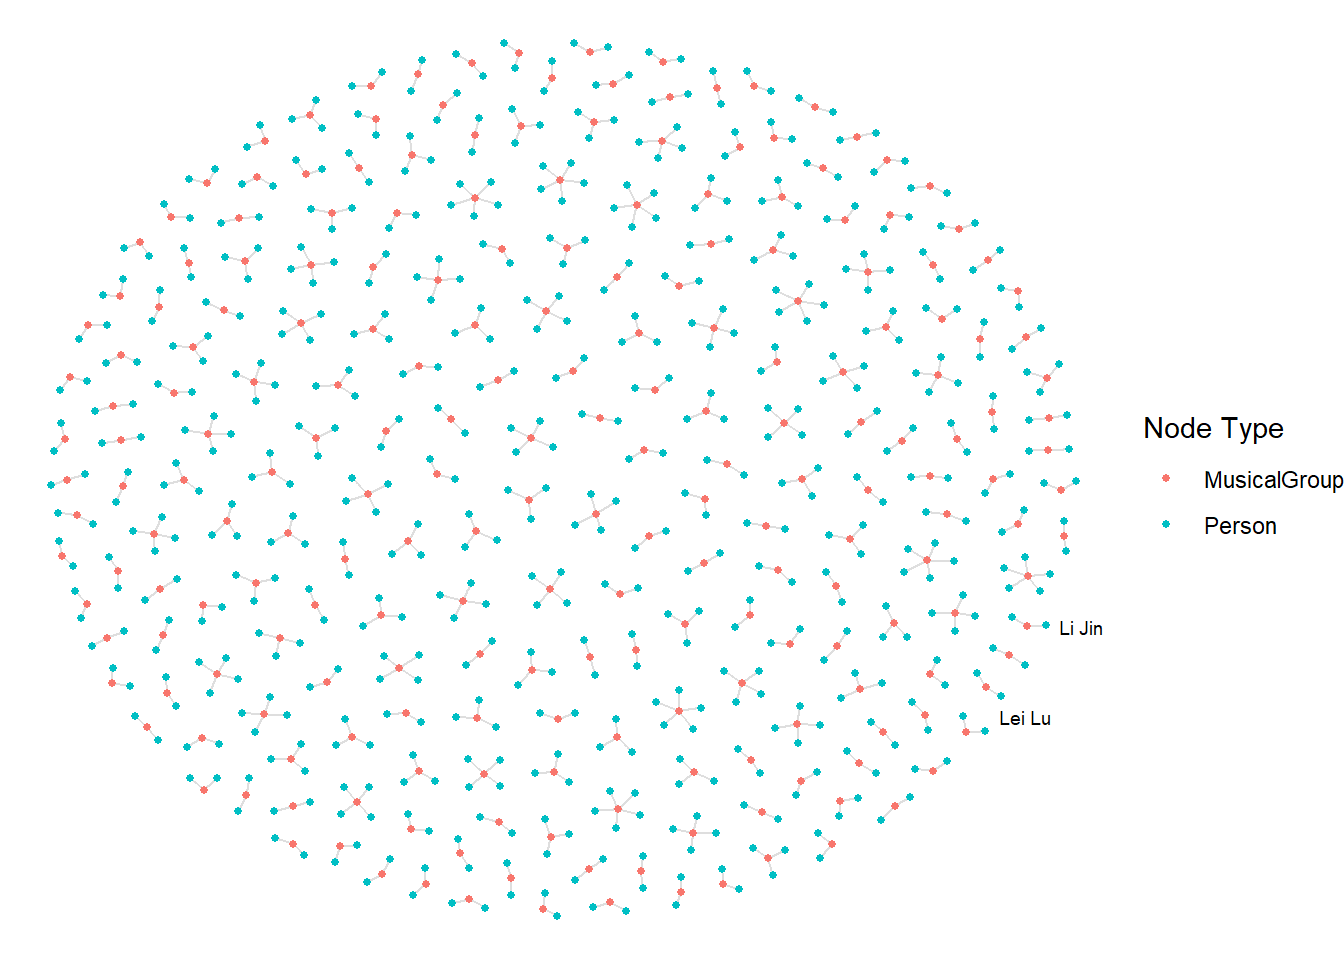
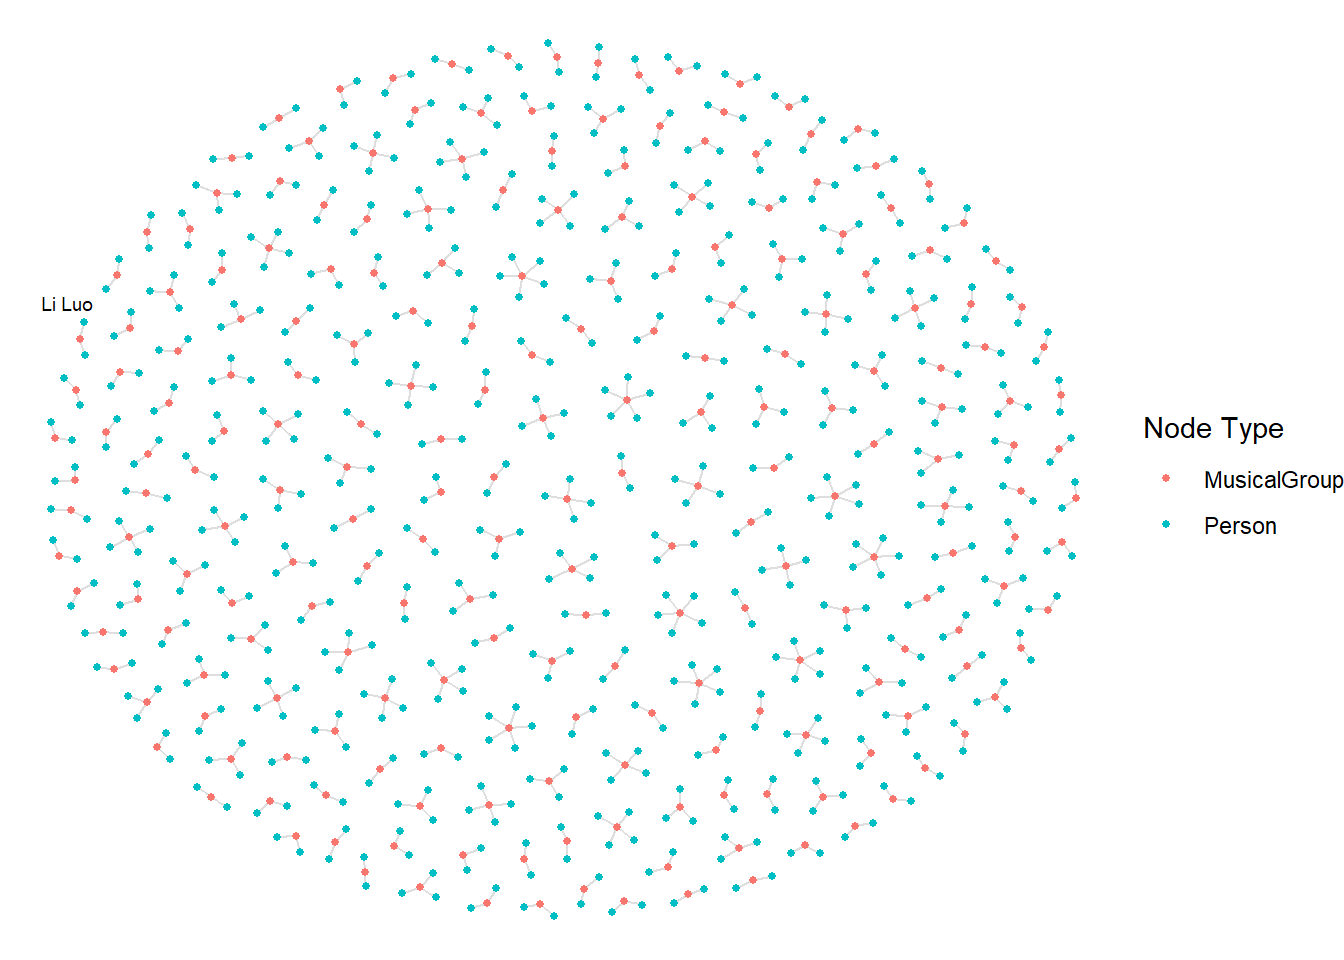
in class ex1

diff --git a/_site/In-class_Ex/In-class_Ex01/In-class_Ex01.html b/_site/In-class_Ex/In-class_Ex01/In-class_Ex01.html
@@ -461,6 +461,13 @@ pre > code.sourceCode > span > a:first-child::before { text-decoration: underlin
 <span id="cb14-8"><a href="#cb14-8" aria-hidden="true" tabindex="-1"></a>                 <span class="at">size=</span><span class="fl">2.5</span>)<span class="sc">+</span></span>
 <span id="cb14-9"><a href="#cb14-9" aria-hidden="true" tabindex="-1"></a>  <span class="fu">theme_void</span>()</span></code><button title="Copy to Clipboard" class="code-copy-button"><i class="bi"></i></button></pre></div>
 </details>
+<div class="cell-output-display">
+<div>
+<figure class="figure">
+<p><img src="In-class_Ex01_files/figure-html/unnamed-chunk-12-1.png" class="img-fluid figure-img" width="672"></p>
+</figure>
+</div>
+</div>
 </div>
 </section>
 </section>
